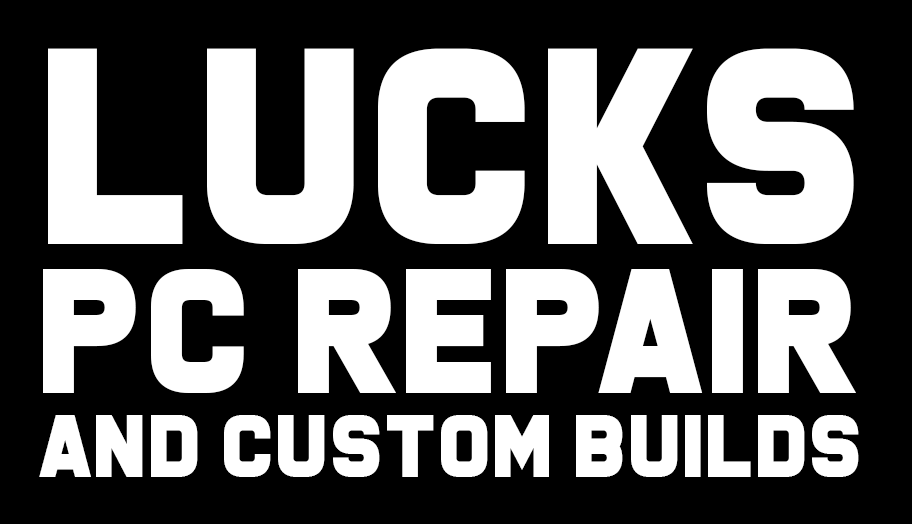
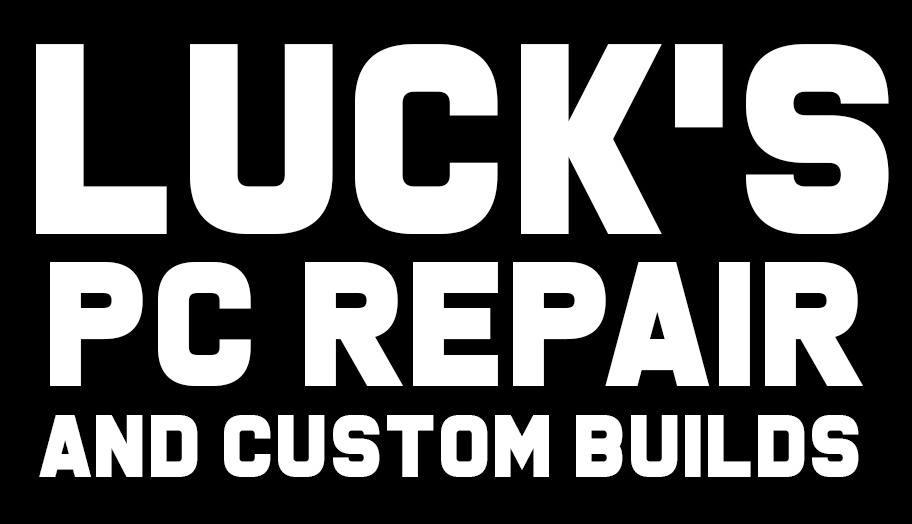
apostrophie

Changed region(s): [[0.0307, 0.0611, 0.9825, 0.7634], [0.1842, 0.7328, 0.2456, 0.7634]]

diff --git a/index.html b/index.html
@@ -14,7 +14,7 @@
 <body>
     <nav class="navbar navbar-expand-lg navbar-dark bg-dark">
         <div class="container-fluid">
-          <a class="navbar-brand" style="font-weight: bold;" href="#">LUCKS</a>
+          <a class="navbar-brand" style="font-weight: bold;" href="#">LUCK'S</a>
           <button class="navbar-toggler" type="button" data-bs-toggle="collapse" data-bs-target="#navbarSupportedContent" aria-controls="navbarSupportedContent" aria-expanded="false" aria-label="Toggle navigation">
             <span class="navbar-toggler-icon"></span>
           </button>
